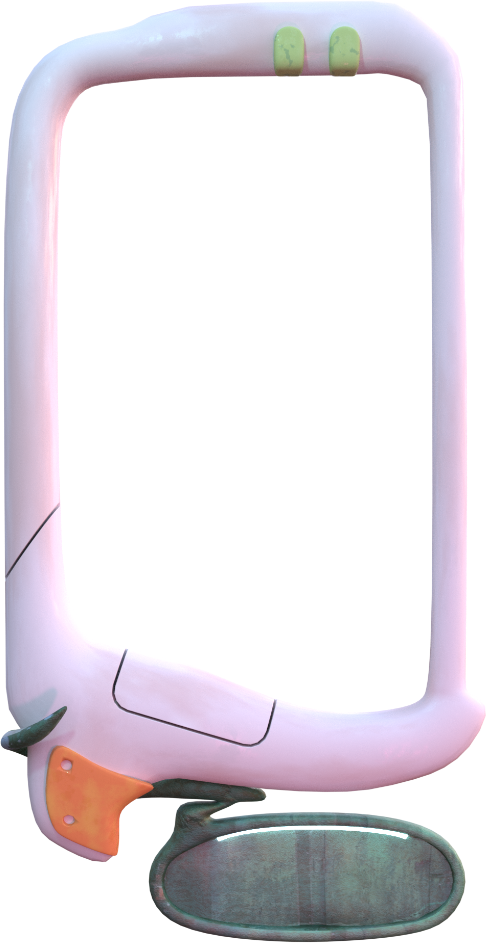
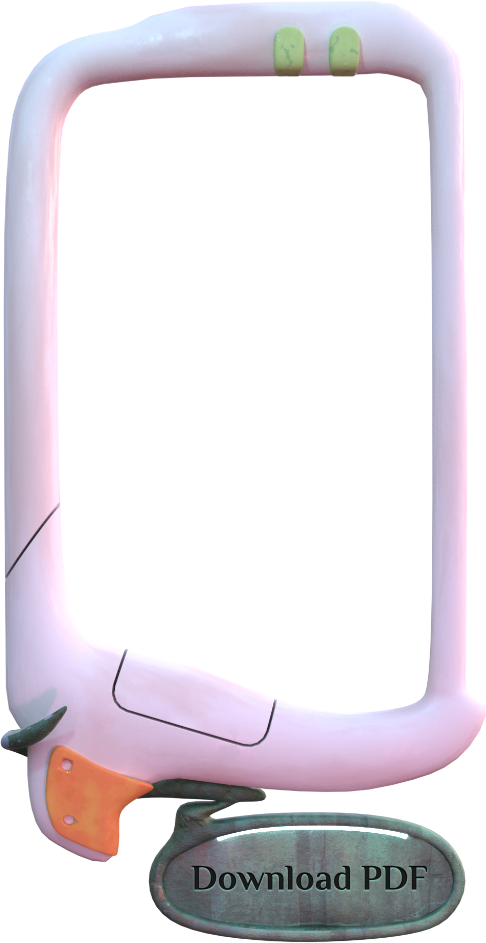
[F] Implement resume/cv links

Changed region(s): [[0.4012, 0.8918, 0.8642, 0.9533]]

diff --git a/_includes/styles/components/featured-icons-list.css b/_includes/styles/components/featured-icons-list.css
@@ -18,19 +18,25 @@
     position: relative;
     width: 100%;
     text-decoration: none;
+    transition: transform 0.2s cubic-bezier(0.32, 0, 0.67, 0);
 }
 
 .featured-icons-listing figure:after {
     content: '';
     position: absolute;
-    width: 100%;
-    height: 100%;
+    width: 118%;
+    height: 200%; /* This just has to be a lot bigger than the width */
     background-image: url(/assets/images/featured-frame_sign@2x.png);
     background-size: contain;
     background-repeat: no-repeat;
-    top: 0;
-    left: -3%;
+    top: -7%;
+    left: -8%;
+    opacity: 0;
+    pointer-events: none;
+    transition: opacity 0.2s cubic-bezier(0.34, 1.56, 0.64, 1);
+    transition-delay: 0.1s;
 }
+
 
 .featured-icons-listing .icon {
     position: absolute;
@@ -39,6 +45,25 @@
     width: 100%;
     text-align: center;
     z-index: 2;
+    opacity: 1;
+    transition: transform 0.15s cubic-bezier(0.25, 1, 0.5, 1), opacity 0.2s cubic-bezier(0.25, 1, 0.5, 1);
+}
+
+.featured-icons-listing:hover {
+    transform: translate(0px, -1em);
+    transition: transform 0.25s cubic-bezier(.21, 1.5, .64, 1);
+}
+
+.featured-icons-listing:hover figure:after {
+    opacity: 1;
+    pointer-events: all;
+    transition: opacity 0.2s cubic-bezier(0.34, 1.56, 0.64, 1);
+}
+
+.featured-icons-listing:hover .icon {
+    transform: translate(0px, -20%);
+    opacity: 0;
+    transition: transform 0.3s 0.1s cubic-bezier(0.16, 1, 0.3, 1), opacity 0.8s 0.1s cubic-bezier(0.34, 1.56, 0.64, 1);
 }
 
 .featured-icons-listing .icon img {
@@ -63,7 +88,7 @@
     font-size: 1.438em;
     font-weight: 700;
     color: var(--neutral-0);
-    bottom: 1.96em;
+    bottom: 2.3em;
     /* Generated here: https: //owumaro.github.io/text-stroke-generator/ */
     text-shadow: 
     var(--neutral-7) 3px 0px 0px, 

diff --git a/_includes/styles/base.css b/_includes/styles/base.css
@@ -68,3 +68,18 @@ From: https://webaim.org/techniques/css/invisiblecontent/ */
     background: none;
     border: 0;
 }
+
+/* Appearance */
+/* --------------------- */
+/* Default link appearance */
+p a {
+  color: var(--accent-1);
+  border-radius: var(--corner-copy);
+  text-decoration: none;
+  transition: all 0.15s cubic-bezier(0.33, 1, 0.68, 1);
+}
+
+p a:hover {
+    background-color: var(--accent-1);
+    color: var(--neutral-0);
+}

diff --git a/_includes/styles/components/default-copy.css b/_includes/styles/components/default-copy.css
@@ -55,9 +55,6 @@
 
 .default-copy p a {
     color: var(--accent-0);
-    text-decoration: none;
-    border-radius: 0.2em;
-    transition: all ease 0.15s;
 }
 
 .default-copy p a:hover {

diff --git a/_includes/styles/components/resume-copy.css b/_includes/styles/components/resume-copy.css
@@ -9,5 +9,9 @@
     max-width: 100%;
     margin: 1.6em auto;
     text-align: center;
-    font-size: 1.188em;
+    font-size: 1.12em;
+}
+
+.resume-copy .spacer {
+    height: 2em;
 }

diff --git a/_includes/styles/root-properties.css b/_includes/styles/root-properties.css
@@ -24,6 +24,7 @@
 
     /* Appearance */
     --corner-base: 0.7em;
+    --corner-copy: 0.2em;
 
     /* Media Queries */
     /* 
